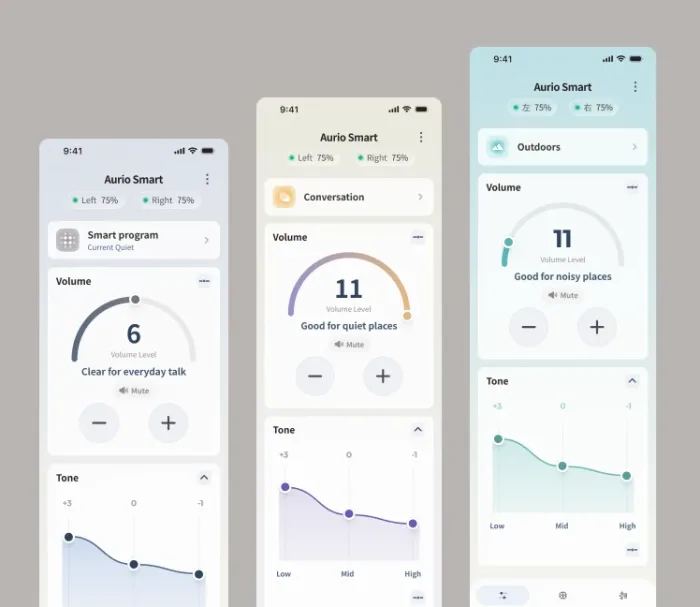
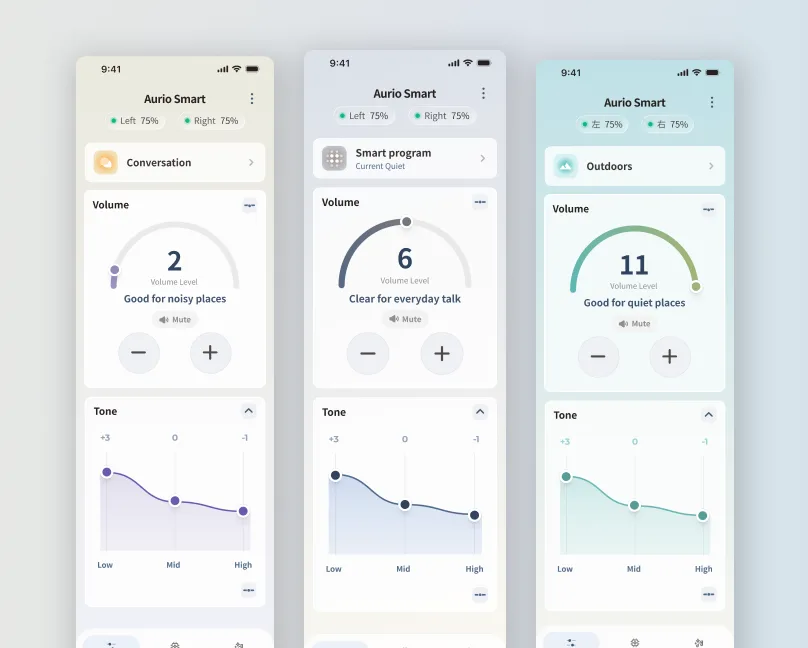
feat: swap Color-modes card image to the new three-mode screenshot (optimized webp)
Replace the 'Color does the talking' card image with Frame 78 (Conversation /
Smart Program / Outdoors modes), converted to webp (808x648, ~34KB, alpha).
Bump cache-bust to v=5 and update intrinsic dims + alt text.

diff --git a/aurio-app.html b/aurio-app.html
@@ -262,7 +262,7 @@
         </article>
         <article class="au-card au-reveal">
           <div class="au-card-media is-center">
-            <img src="img/aurio-semantics.webp?v=4" width="700" height="607" alt="The same app shown in three color modes: a quiet lavender mode, a warm conversation mode, and a green outdoors mode" loading="lazy" />
+            <img src="img/aurio-semantics.webp?v=5" width="808" height="648" alt="The Aurio app in three color modes: Conversation, Smart Program, and Outdoors, each shifting the whole screen to a different color" loading="lazy" />
           </div>
           <h3>Color does the talking</h3>
           <p>Each listening mode has its own color and icon. Switch to Conversation, Outdoors, or Quiet and the whole screen shifts to match. You read the mode before you read a word.</p>